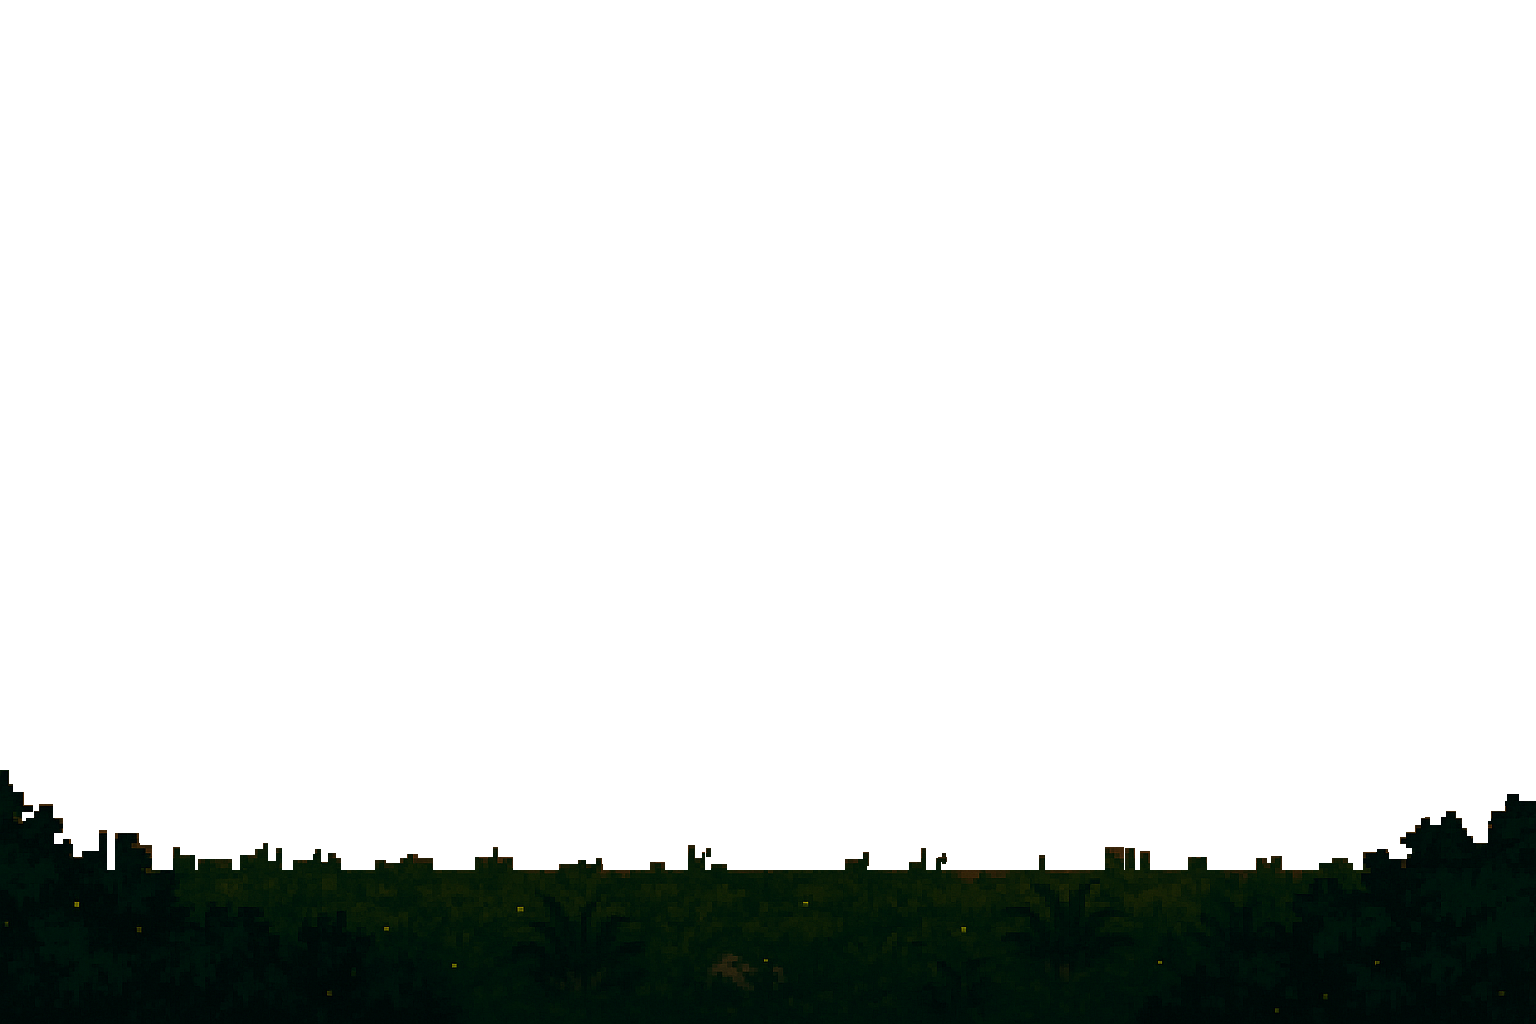
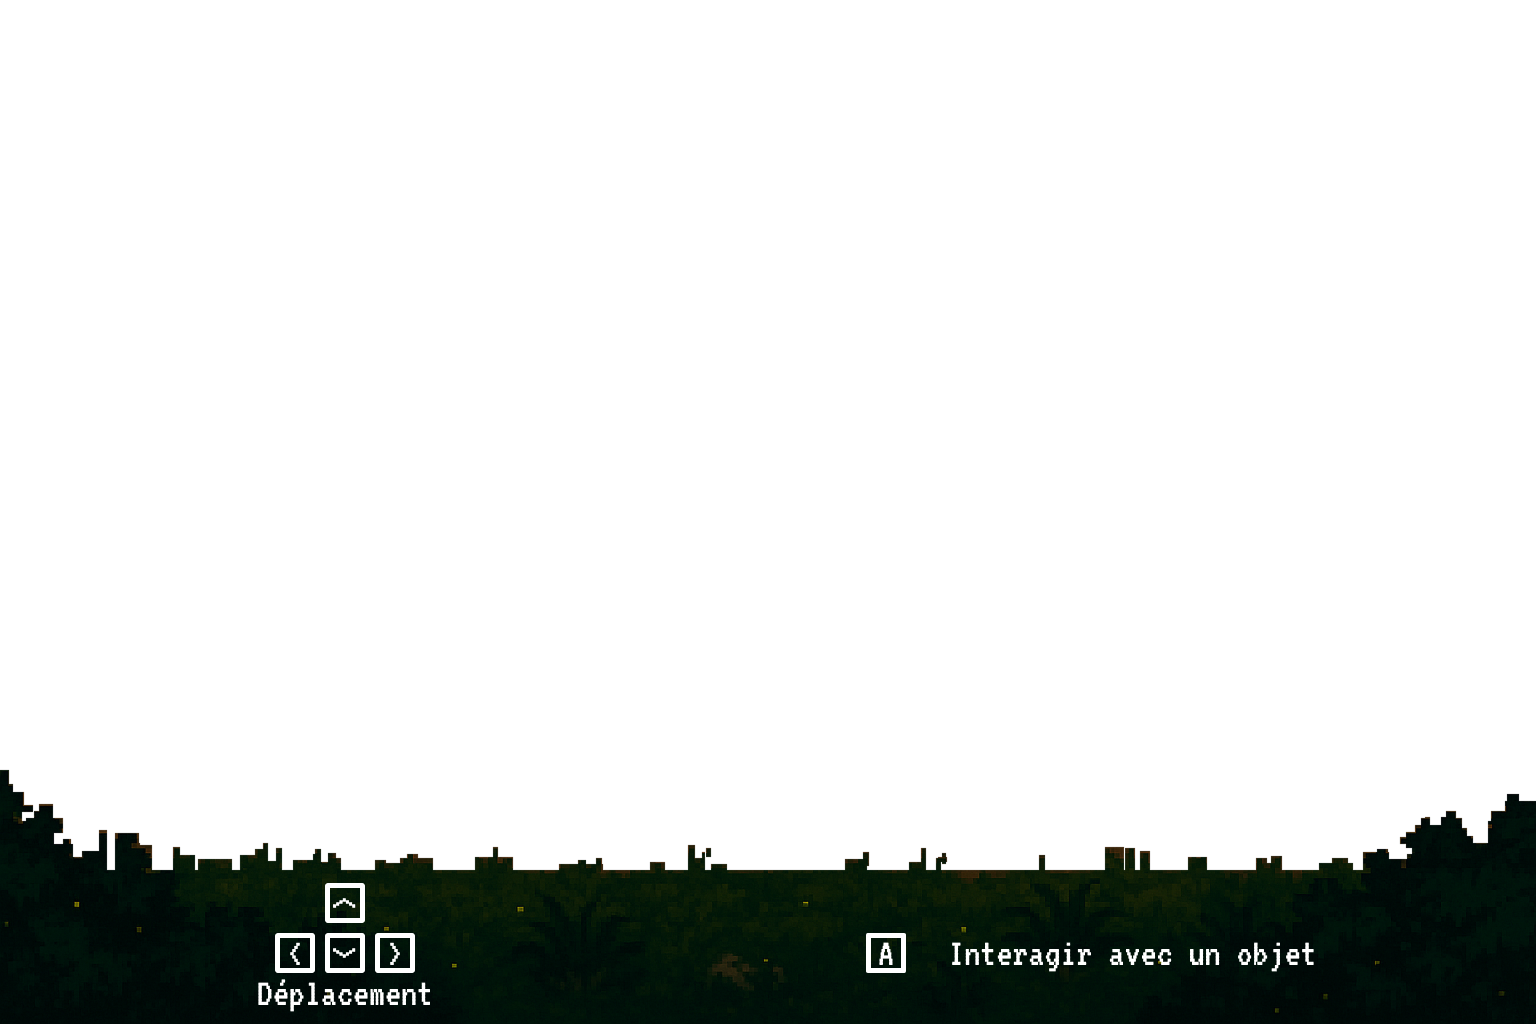
fix: update player spawn position in the map + controls indication

Changed region(s): [[0.1562, 0.8438, 0.2812, 1.0], [0.625, 0.9062, 0.8438, 0.9688], [0.5625, 0.9062, 0.5938, 0.9688]]

diff --git a/Map.java b/Map.java
@@ -47,7 +47,7 @@ public class Map extends JPanel {
             printDev("Erreur lors du chargement de l'image de la map : " + e.getMessage());
         }
         this.setPreferredSize(new Dimension(width, height));
-        joueur = new Joueur("Joueur", 17, 474, 10);
+        joueur = new Joueur("Joueur", 30, 460, 10);
 
         // Initialisation des murs pour chaque map
 
